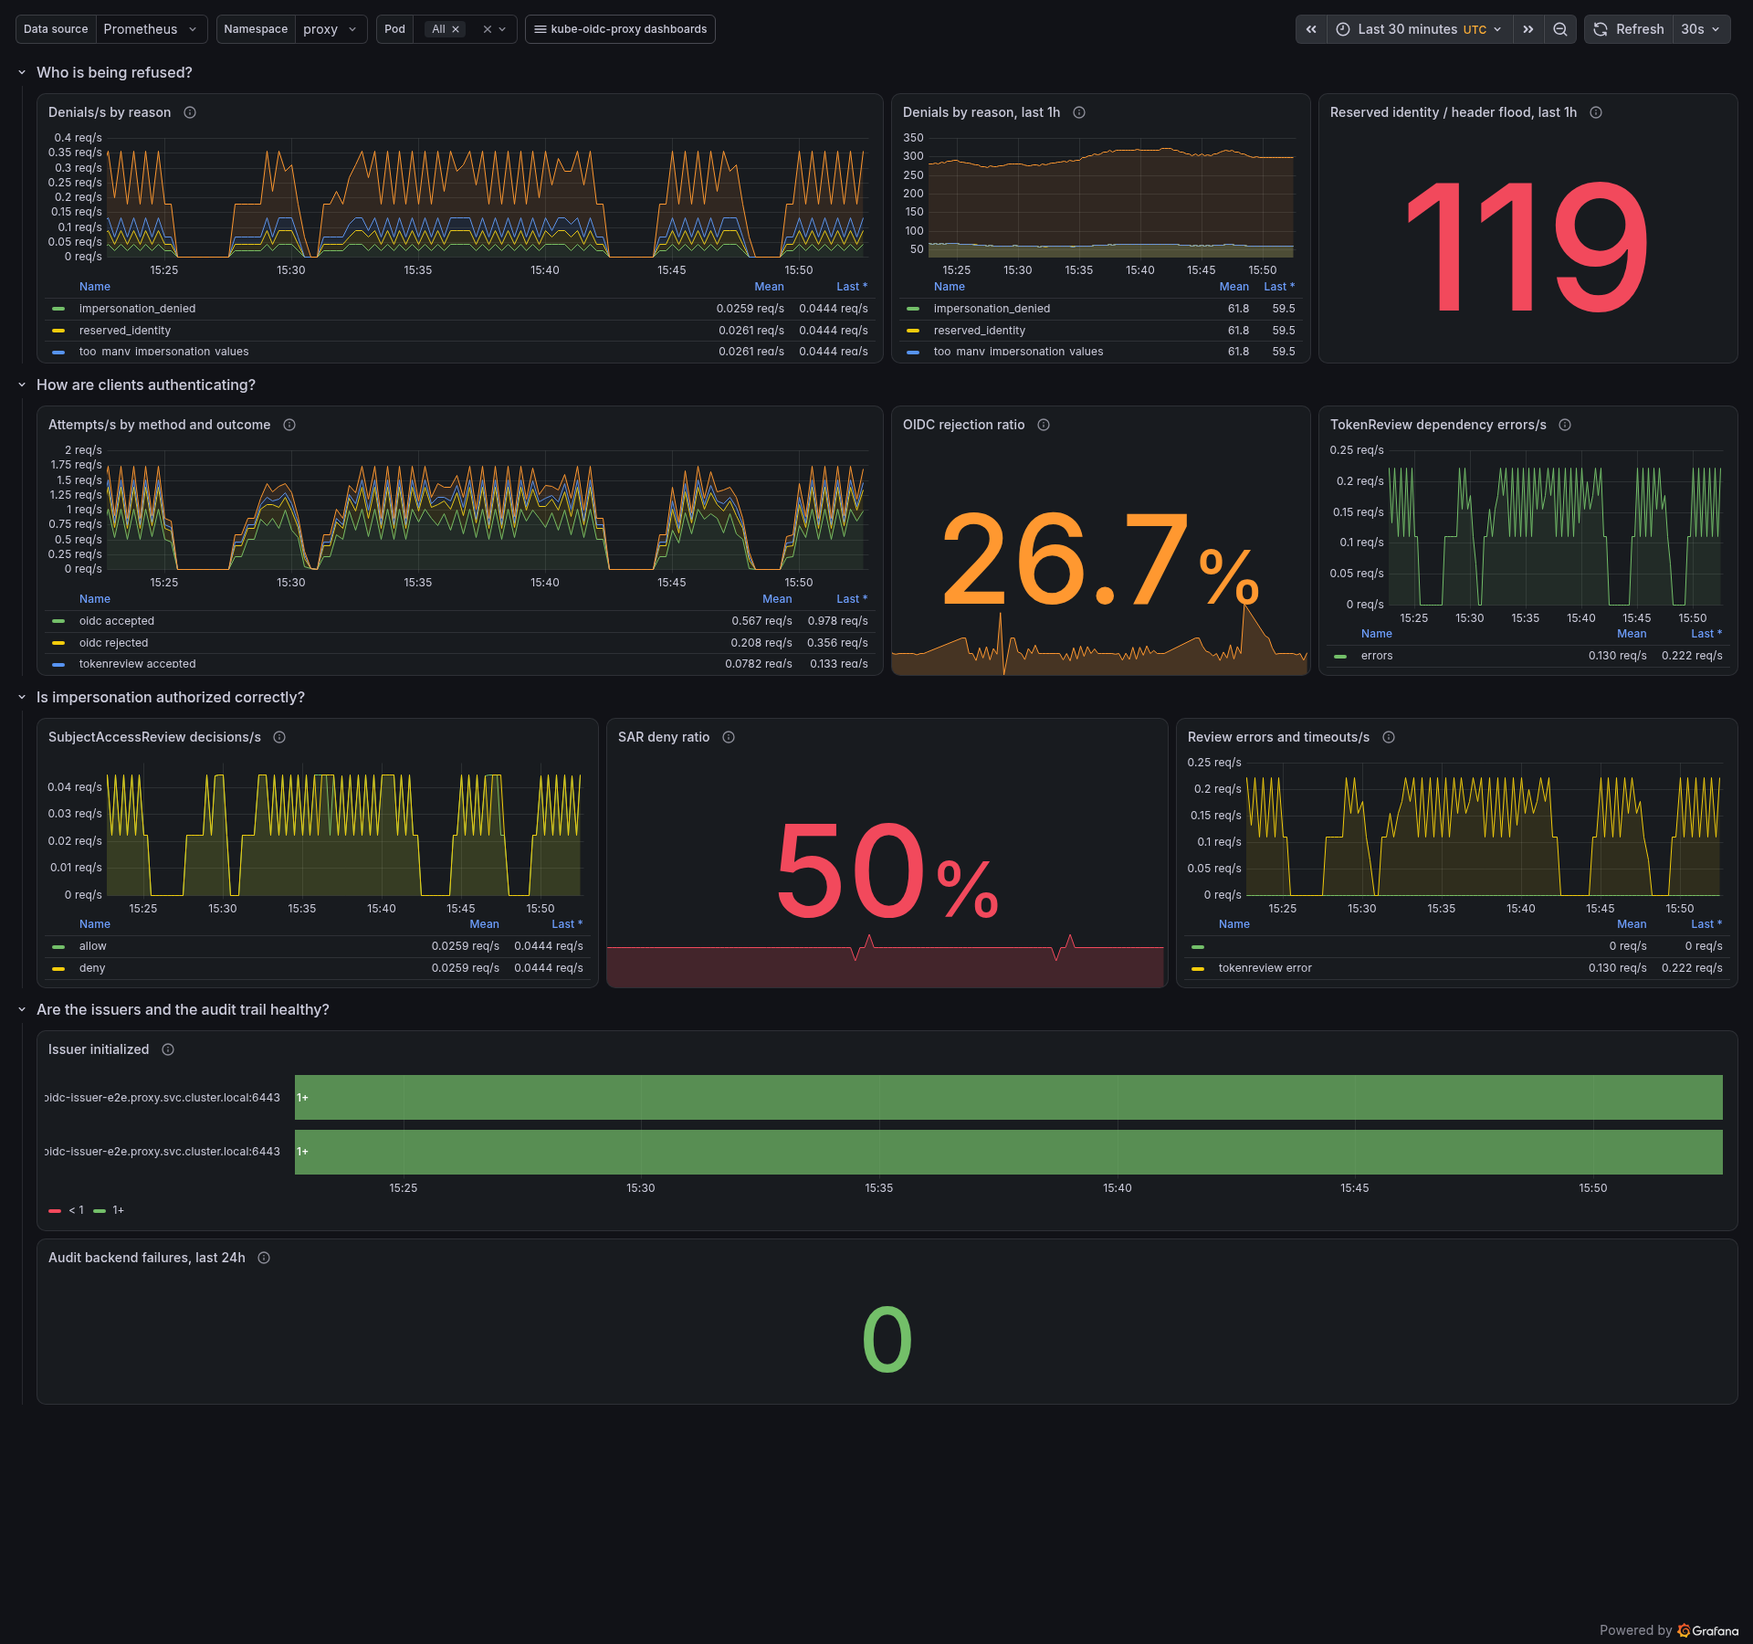
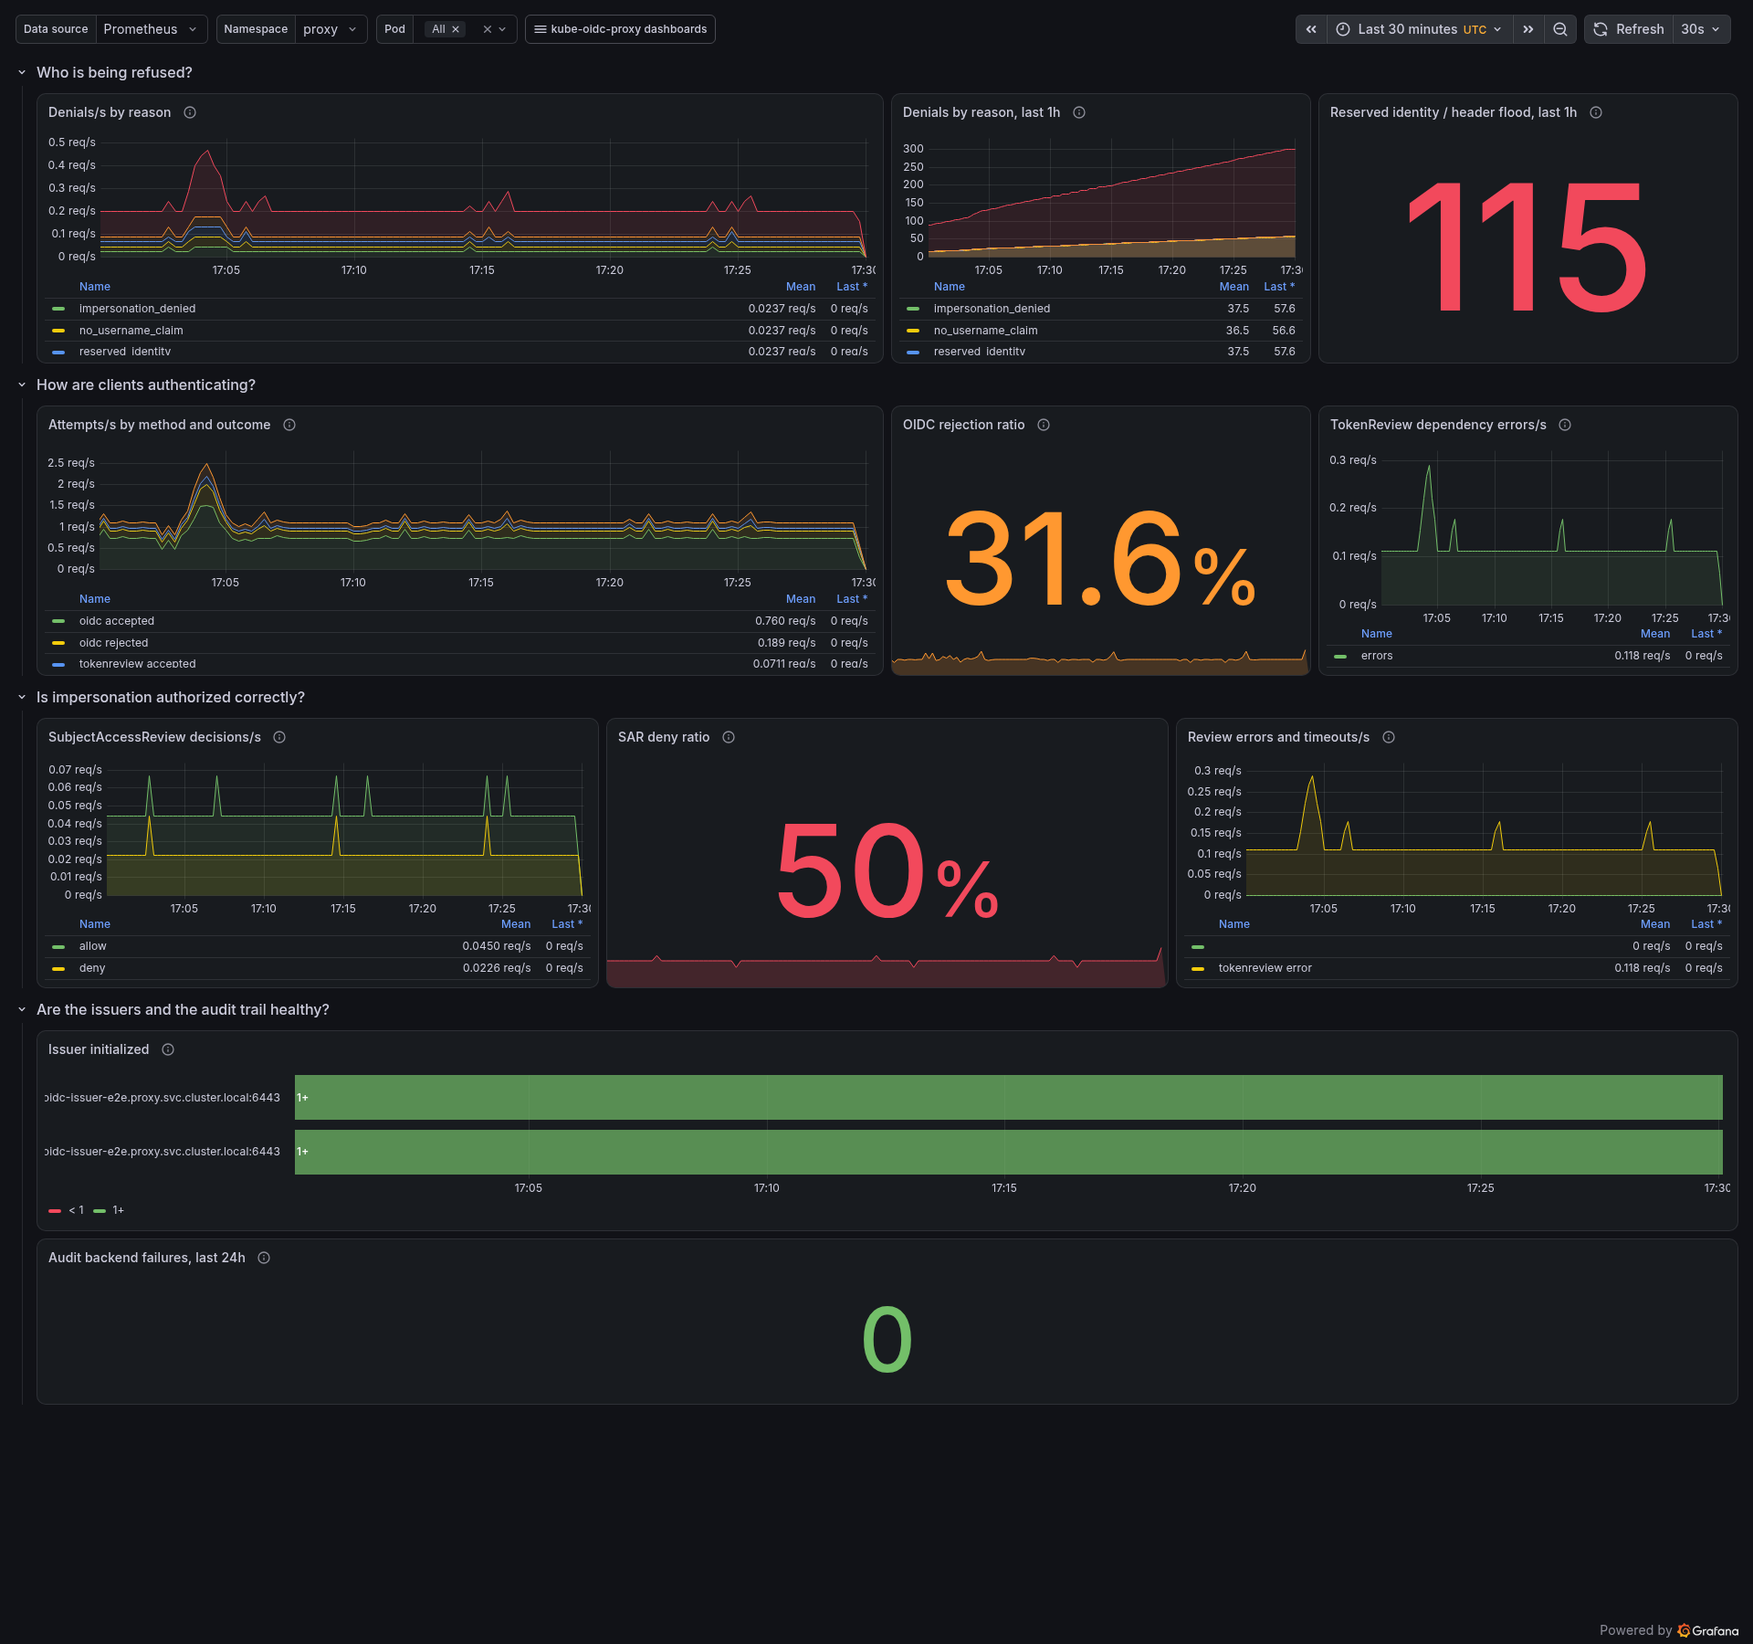
docs(metrics): re-render the dashboards after the code-class fix

diff --git a/docs/testing/prometheus-metrics.tdd.md b/docs/testing/prometheus-metrics.tdd.md
@@ -78,9 +78,9 @@ happened rather than dressed up as a failing assertion.
 | Against a live cluster, the proxy deployed with the chart-rendered flag and port serves build information and the runtime collectors, reports the configured issuer initialized and itself ready, counts an allowed list and a rejected token with closed-set labels, gauges an open watch and releases it without ever timing it, and keeps every label inside its documented set under 30 arbitrary requests | The five `Metrics` specs in `test/e2e/suite/cases/metrics/metrics.go` (`shard-a`) | e2e | Task 20 Step 2, before the helpers existed: `go test -tags logcheck ./test/e2e/framework/helper/`<br>→ `undefined: ChartMetricsSurfaceFor`, `undefined: ParseMetrics`; the suite could not be built, let alone deployed | `make e2e GINKGO_LABEL_FILTER=shard-a` at commit `f720a06c` (Docker, kind, kubectl and helm all present locally)<br>→ all five specs pass — `[TEST] Metrics serves build information and the runtime collectors [shard-a]` `• [9.826 seconds]`, `[TEST] Metrics reports the configured issuer as initialized and the proxy as ready [shard-a]` `• [11.921 seconds]`, `[TEST] Metrics counts an allowed list and a rejected token with closed-set labels [shard-a]` `• [9.934 seconds]`, `[TEST] Metrics gauges an open watch and releases it, without timing it [shard-a]` `• [12.118 seconds]`, `[TEST] Metrics keeps every label inside its documented set under arbitrary requests [shard-a]` `• [10.049 seconds]` — and for the shard: `Ran 13 of 49 Specs in 213.442 seconds`; `SUCCESS! -- 13 Passed \| 0 Failed \| 0 Pending \| 36 Skipped`; `ok  github.com/rafpe/kube-oidc-proxy/test/e2e/suite 214.687s` |
 | Hand-authored SVG diagrams are well-formed XML with a `<title>`, use literal colours (GitHub strips CSS variables and resolves `currentColor` to black on a dark theme) and are referenced from at least one document | `hack/verify-diagrams.sh`, run by `.github/workflows/test.yaml` | integration | Task 22: `bash hack/verify-diagrams.sh` before `docs/diagrams/` existed<br>→ `docs/diagrams missing` (exit 1), preceded by `FileNotFoundError: [Errno 2] No such file or directory: 'docs/diagrams/*.svg'` from the unmatched glob | `bash hack/verify-diagrams.sh`<br>→ no output, exit 0; `make verify_eventdoc && make verify_metricdoc` clean alongside it |
 | The three dashboards are valid Grafana JSON with a fixed uid, the shared `$datasource`/`$namespace`/`$pod` variables, a description on every panel, the datasource variable on every panel and query, and they pass the pinned Grafana dashboard linter under `--strict`; the chart renders them only when asked, byte-for-byte, and `metrics.dashboards.enabled` without `metrics.enabled` fails the render | `hack/verify-chart-dashboards.sh` (dashboard-linter 0.3.0), run by `.github/workflows/helm.yaml` | integration | Task 23: `bash hack/verify-chart-dashboards.sh` with nothing under `dashboards/`<br>→ `jq: error: Could not open file chart/kube-oidc-proxy/dashboards/*.json: No such file or directory` then `chart/kube-oidc-proxy/dashboards/*.json: uid must be kube-oidc-proxy-*` (exit 1) | `bash hack/verify-chart-dashboards.sh`<br>→ `chart dashboards: ok`, with the linter clean on all three under `--strict`; `helm lint chart/kube-oidc-proxy -f chart/kube-oidc-proxy/ci/metrics-values.yaml` → `1 chart(s) linted, 0 chart(s) failed`; `bash hack/verify-chart-namespace.sh` → `metrics: 13 objects in verify-ns` (one more than phase 3's 12: the dashboards ConfigMap) |
-| The kind demo leaves behind a cluster where Prometheus has discovered both proxy replicas and is scraping them, Grafana is up, and the chart's ServiceMonitor and dashboards ConfigMap exist | `hack/metrics-demo/check.sh`, run as the last step of `hack/metrics-demo/up.sh` | e2e | Task 24: `bash hack/metrics-demo/check.sh` before the cluster existed<br>→ `missing hack/metrics-demo/.state/kubeconfig` (exit 1) | `make metrics_demo_up`<br>→ `metrics demo: ready` after 3m43s from an empty machine; `up{job=~".*kube-oidc-proxy.*"}` returns 2 series at 1, each carrying `namespace="proxy"` and a `pod` label |
-| Every kind of traffic the metric catalogue can observe produces its expected status through the deployed proxy: allowed and forbidden requests, invalid and expired tokens, allowed and denied impersonation, the reserved-identity and header-flood anomalies, both token-passthrough outcomes, a watch, an exec, a log stream, non-resource paths and nine non-Kubernetes verbs | `hack/metrics-demo/load` (`--once`) | e2e | Task 25: `go run ./hack/metrics-demo/load --once` before the program existed → the package did not compile | `bash hack/metrics-demo/load.sh --once`<br>→ 16 scenarios, each matching its expected status (200, 403, 401, 431, and no HTTP status for the hijacked exec and the cancelled watch); `every scenario produced its expected status`, exit 0 in 22.3s |
-| Every query in every shipped dashboard returns data against a real cluster carrying real traffic, and the documented screenshots are rendered from those dashboards with that data — a panel without data fails before a screenshot can be taken | `hack/metrics-demo/verify.sh` | e2e | Task 26, captured immediately after the demo came up and before any load ran: `bash hack/metrics-demo/verify.sh`<br>→ 22 `no data for:` lines across all three dashboards, e.g. `overview: no data for: sum by (k8s_verb) (rate(kube_oidc_proxy_requests_total{namespace="$namespace",pod=~"$pod"}[$__rate_interval]))` (exit 1) | `bash hack/metrics-demo/load.sh --duration 10m` (348 calls, 0 failures) then `bash hack/metrics-demo/verify.sh`<br>→ `metrics demo: every panel has data; screenshots in docs/dashboards/`; all 35 panels' queries non-empty, and `docs/dashboards/{overview,security,capacity}.png` rendered by Grafana's image renderer and checked by eye — every panel populated, no "No data" |
+| The kind demo leaves behind a cluster where Prometheus has discovered both proxy replicas and is scraping them, Grafana is up, and the chart's ServiceMonitor and dashboards ConfigMap exist — and the Prometheus answering is the demo's own, not one a stale forward left pointing elsewhere | `hack/metrics-demo/check.sh`, run as the last step of `hack/metrics-demo/up.sh` | e2e | Task 24: `bash hack/metrics-demo/check.sh` before the cluster existed<br>→ `missing hack/metrics-demo/.state/kubeconfig` (exit 1). Review fix-up: with a stand-in for a stale forward holding the old fixed port 19090 and no demo cluster running at all, the pre-fix script still read `up=1` from it and would have reported the demo ready | `make metrics_demo_up`<br>→ `metrics demo: ready` after 3m43s from an empty machine; `up{job=~".*kube-oidc-proxy.*"}` returns 2 series at 1, each carrying `namespace="proxy"` and a `pod` label. The forward is now opened by `hack/metrics-demo/portforward.sh`: kubectl picks the port, the `Forwarding from 127.0.0.1:<port>` line is both the port and the readiness signal, an `EXIT` trap kills it, and `pf_check` fails loudly if it dies |
+| Nineteen kinds of traffic each produce their expected status through the deployed proxy, and every constituent call of a multi-call kind is asserted and logged on its own: `allowed_list`, `allowed_get`, `forbidden_by_rbac`, `upstream_5xx`, `invalid_token`, `expired_token`, `impersonation_allowed`, `impersonation_coalesced`, `impersonation_denied`, `too_many_impersonation_values`, `reserved_identity`, `no_username_claim`, `passthrough_allowed`, `passthrough_denied`, `watch`, `exec`, `logs`, `non_resource` (both paths) and `hostile_methods` (all nine). Two of them assert a counter delta on one pinned replica, not just a status: `no_username_claim` must move `access_decisions_total{reason="no_username_claim"}`, and `impersonation_coalesced` must show that eight simultaneous identical impersonation calls against a cold decision cache produced eight allows but fewer than eight SubjectAccessReviews. No upstream failure is faked: `upstream_5xx` is a 504 the API server itself answers, so "Upstream failures/s" reads its healthy zero | `hack/metrics-demo/load` (`--once`) | e2e | Task 25: `go run ./hack/metrics-demo/load --once` before the program existed → the package did not compile. Review fix-up: the pre-fix generator logged 16 records for the ~30 calls it made and reported `hostile_methods` with status 0 and `ok: true` while every one of its nine calls answered 403 — a status no call in it ever produced | `bash hack/metrics-demo/load.sh --once`<br>→ 19 scenarios, 41 calls, each matching its expected status (200, 403, 401, 431, 504, and no HTTP status for the hijacked exec and the cancelled watch); `every call produced its expected status`, exit 0 |
+| Every query in every shipped dashboard returns data against a real cluster carrying real traffic, the Prometheus answering is the demo's own, and the documented screenshots are rendered from those dashboards with that data — a panel without data fails before a screenshot can be taken | `hack/metrics-demo/verify.sh` | e2e | Task 26, captured immediately after the demo came up and before any load ran: `bash hack/metrics-demo/verify.sh`<br>→ 22 `no data for:` lines across all three dashboards, e.g. `overview: no data for: sum by (k8s_verb) (rate(kube_oidc_proxy_requests_total{namespace="$namespace",pod=~"$pod"}[$__rate_interval]))` (exit 1) | Review fix-up re-run, after `make metrics_demo_up` rebuilt the image from a clean tree and the Deployment was restarted onto it (`kube_oidc_proxy_build_info{version="v1.7.1-38+9d800de8902914"}`, no `-dirty`): `bash hack/metrics-demo/load.sh --duration 10m` (501 calls) then `--duration 26m` (1463 calls) so the previous image's series aged out of the render window, then `bash hack/metrics-demo/verify.sh`<br>→ `metrics demo: every panel has data; screenshots in docs/dashboards/` (exit 0); all 40 queries across the 35 panels non-empty, `up{namespace="proxy"}` asserted before any of them, and `docs/dashboards/{overview,security,capacity}.png` re-rendered at 1920x1800 and checked by eye — every panel populated, no "No data". "Responses by code class" now draws 2xx, 4xx and 5xx as separate bands where it previously drew one series called `Value`; measured directly, all three classes are present at every one of the 60 sample points in the rendered window |
 
 ## Not covered here
 

diff --git a/hack/metrics-demo/README.md b/hack/metrics-demo/README.md
@@ -2,9 +2,10 @@
 
 A reproducible kind cluster that installs this chart with metrics, a
 ServiceMonitor and the three Grafana dashboards, alongside
-kube-prometheus-stack, generates every kind of traffic the metric catalogue
-can observe, proves every dashboard panel returns data, and captures the
-screenshots in [`docs/dashboards/`](../../docs/dashboards).
+kube-prometheus-stack, drives the nineteen kinds of traffic listed under
+[what the load generator drives](#what-the-load-generator-drives), proves every
+dashboard panel returns data, and captures the screenshots in
+[`docs/dashboards/`](../../docs/dashboards).
 
 It is a demo, not a deployment reference: everything runs on one node, nothing
 is hardened, and Grafana allows anonymous viewers so the screenshots can be
@@ -82,6 +83,43 @@ four panel rows of every dashboard. It refuses to render them until every
 Prometheus, so a screenshot of empty panels cannot be produced by accident,
 and it rejects an image too small to be a populated dashboard. Run the load
 generator for ten minutes first, or the panels have nothing to draw.
+
+## What the load generator drives
+
+The exact kinds, one per traffic shape the dashboards draw. `--once` runs each
+one and asserts every call it makes; a scenario made of several calls asserts
+and logs each of them separately.
+
+| Kind | What it sends | What it is there for |
+| --- | --- | --- |
+| `allowed_list` | list pods with a valid token | 200 at namespace scope, `authn{oidc,accepted}`, `decisions{allow}` |
+| `allowed_get` | get one pod | 200 at resource scope |
+| `forbidden_by_rbac` | list nodes, which the demo identity is not granted | 403 from the API server after the proxy allowed the request |
+| `upstream_5xx` | list pods at a resource version the API server will never observe | 504 from the API server, so the code-class panel has a 5xx band |
+| `invalid_token` | a bearer that is not a JWT | 401, `decisions{deny,unauthorized}` |
+| `expired_token` | a correctly signed token past its `exp` | 401 by a different route through the authenticator |
+| `impersonation_allowed` | three identical `Impersonate-User: jjackson` calls | `review_requests{sar,allow}`, a cache miss then hits |
+| `impersonation_coalesced` | eight identical impersonation calls at once, at one replica whose decision cache has just expired | that replica issues fewer SubjectAccessReviews than it answers calls |
+| `impersonation_denied` | `Impersonate-User: mallory` | 403, `decisions{deny,impersonation_denied}` |
+| `too_many_impersonation_values` | 100 `Impersonate-Group` headers | 431, refused on the header count before any review |
+| `reserved_identity` | a token claiming `system:masters` | 403, `decisions{deny,reserved_identity}` |
+| `no_username_claim` | a token the issuer signed that names nobody | 403, `decisions{deny,no_username_claim}`, asserted by counter delta |
+| `passthrough_allowed` | three calls with the same ServiceAccount token | `authn{oidc,rejected}` then `{tokenreview,accepted}` |
+| `passthrough_denied` | three calls with a well-formed token nobody vouches for | `authn{tokenreview,rejected}` |
+| `watch` | a list-watch held open for 20s, then cancelled | `long_running_requests{watch}`, termination `client_cancel` |
+| `exec` | `exec` into `demo-shell` | the hijack path: termination `hijacked`, code `none` |
+| `logs` | read the pod's log | long-running but not hijacked |
+| `non_resource` | `GET /version` and `GET /healthz`, both asserted | scope `none`, verb `get` |
+| `hostile_methods` | nine methods `M1`..`M9`, each asserted | every one must project onto `k8s_verb="other"` |
+
+**No upstream failure is faked.** `upstream_5xx` is a 5xx the API server itself
+answers, so the proxy's exchange completes normally and its `termination` is
+`normal`. Nothing in the demo makes the hop to the API server fail, so the
+overview's "Upstream failures/s" panel reads a flat zero, which is the healthy
+reading. That panel and four others end their query with `or vector(0)` for
+exactly this reason: a counter child that has never been incremented has no
+series at all, and a panel that says "No data" where it should say zero is a
+panel an operator learns to ignore.
 
 ## What each file is
 

diff --git a/docs/development.md b/docs/development.md
@@ -296,10 +296,15 @@ PNGs. [Architecture](./architecture.md#diagrams) shows them.
 
 `hack/metrics-demo/` builds a kind cluster running kube-prometheus-stack and
 this chart with metrics, a ServiceMonitor and the three Grafana dashboards, and
-proves the dashboards are honest: it drives every kind of traffic the metric
-catalogue can observe, fails if any dashboard panel's query returns an empty
-result, and only then captures the screenshots in `docs/dashboards/`. Four
-steps, each one command:
+proves the dashboards are honest: it drives nineteen kinds of traffic —
+allowed and forbidden requests, a 5xx the API server itself answers, invalid,
+expired and username-less tokens, allowed, denied and simultaneous
+impersonation, the two anomaly denials, both token-passthrough outcomes, a
+watch, an exec, a log stream, non-resource paths and nine non-Kubernetes verbs
+— fails if any dashboard panel's query returns an empty result, and only then
+captures the screenshots in `docs/dashboards/`. It fakes no failure of the hop
+to the API server, so the overview's "Upstream failures/s" panel reads zero, as
+it should against a healthy upstream. Four steps, each one command:
 
 ```sh
 make metrics_demo_up                                     # cluster, Prometheus, Grafana, the chart

diff --git a/docs/metrics.md b/docs/metrics.md
@@ -197,7 +197,14 @@ The chart ships three Grafana dashboards (`metrics.dashboards.enabled: true`)
 as a ConfigMap the Grafana sidecar loads; kube-prometheus-stack picks them up
 with no further configuration. Each answers a different set of questions.
 The screenshots come from the [kind demo](./development.md#metrics-demo) with
-the load generator running.
+the load generator running. Five panels count things a healthy proxy never
+does - upstream failures, TokenReview dependency errors, review errors and
+timeouts, audit backend failures, reserved-identity and header-flood attempts.
+A counter child that has never been incremented has no series at all, so those
+five queries end with `or vector(0)` and read a flat zero rather than
+"No data". The demo does not fake any of them: in the screenshots below the
+upstream-failure panel reads zero because the API server never failed to
+answer, which is what a healthy deployment looks like.
 
 ### Overview (`kube-oidc-proxy-overview`)
 
